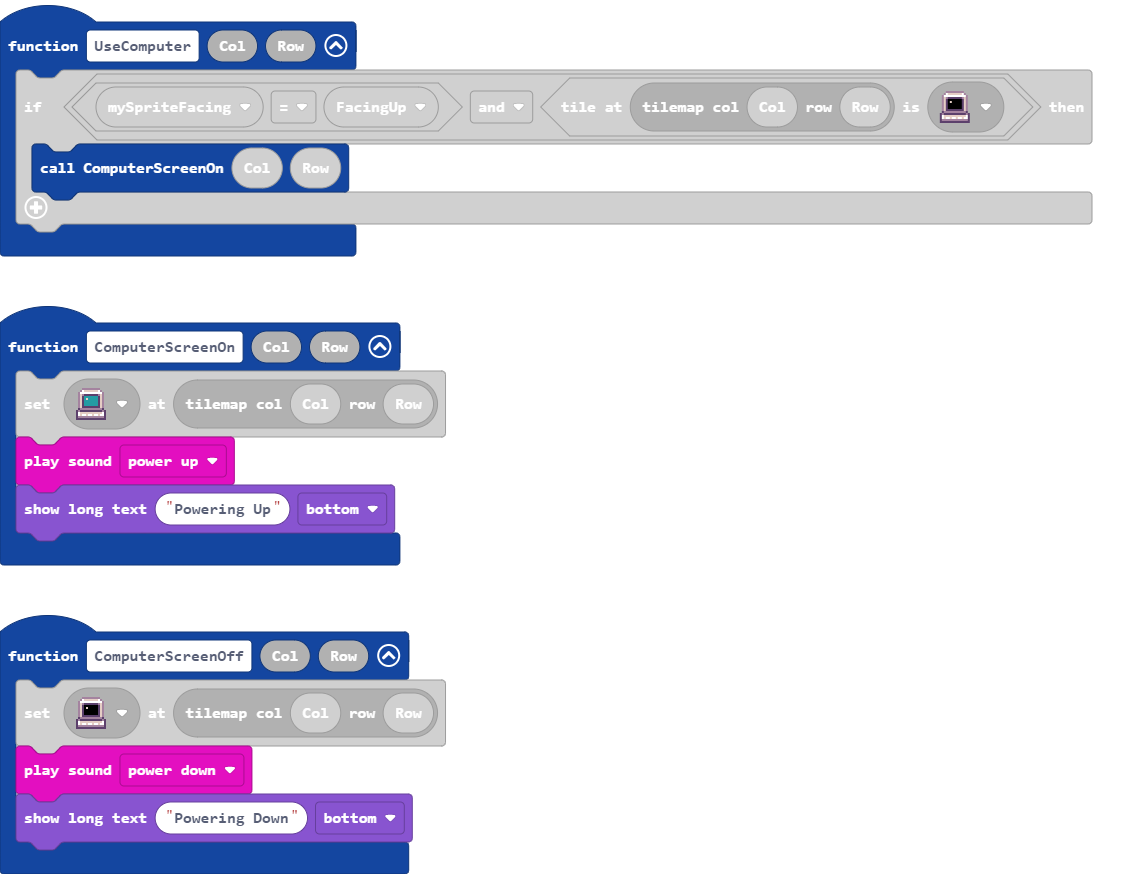
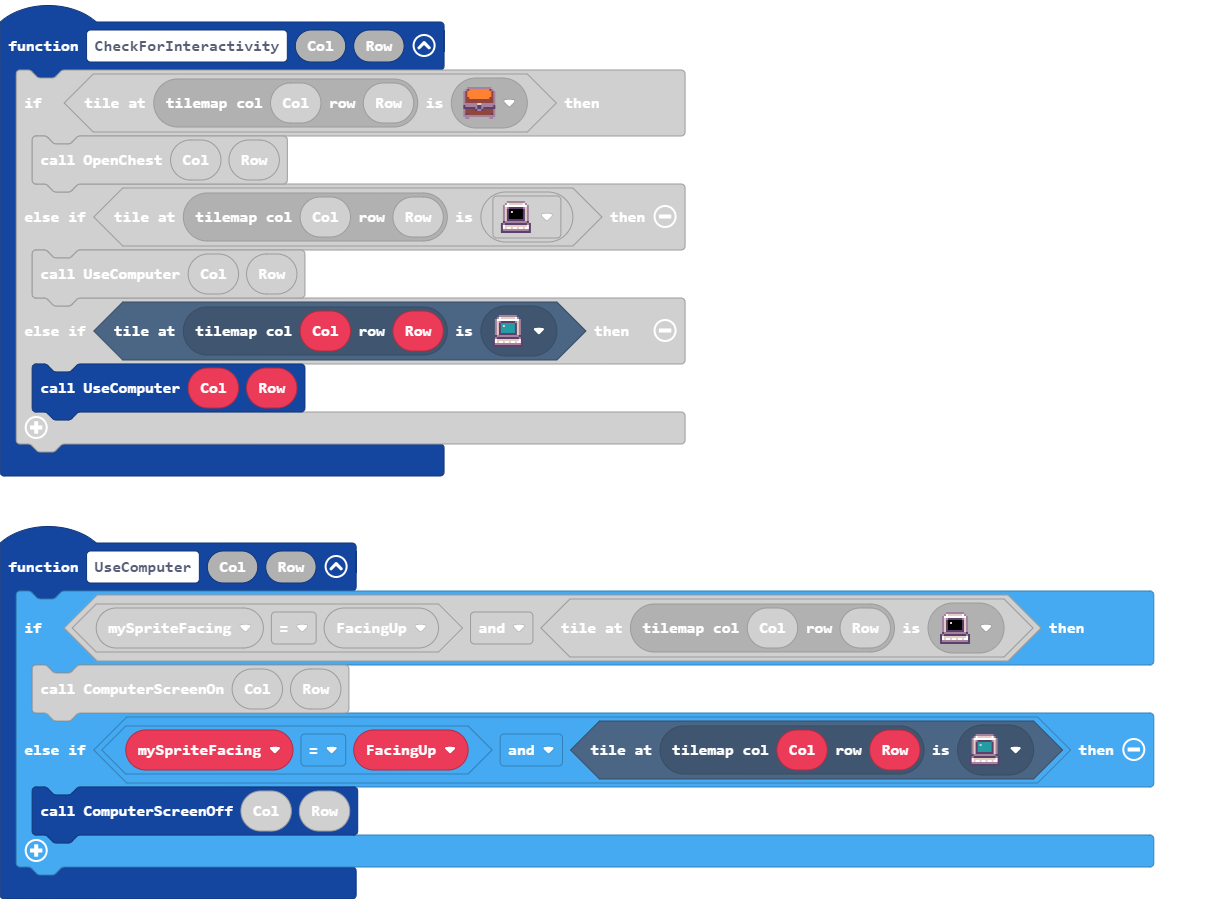
fixed bug, computer now off when facing up

diff --git a/main.ts b/main.ts
@@ -31,6 +31,8 @@ controller.anyButton.onEvent(ControllerButtonEvent.Released, function () {
 function UseComputer (Col: number, Row: number) {
     if (mySpriteFacing == FacingUp && tiles.tileAtLocationEquals(tiles.getTileLocation(Col, Row), assets.tile`ComputerScreenOn0`)) {
         ComputerScreenOn(Col, Row)
+    } else if (mySpriteFacing == FacingUp && tiles.tileAtLocationEquals(tiles.getTileLocation(Col, Row), assets.tile`ComputerScreenOn`)) {
+        ComputerScreenOff(Col, Row)
     }
 }
 function ComputerScreenOff (Col: number, Row: number) {
@@ -44,7 +46,7 @@ function CheckForInteractivity (Col: number, Row: number) {
     } else if (tiles.tileAtLocationEquals(tiles.getTileLocation(Col, Row), assets.tile`ComputerScreenOn0`)) {
         UseComputer(Col, Row)
     } else if (tiles.tileAtLocationEquals(tiles.getTileLocation(Col, Row), assets.tile`ComputerScreenOn`)) {
-        ComputerScreenOff(Col, Row)
+        UseComputer(Col, Row)
     }
 }
 function SetUpComputer (X: number, Y: number) {
